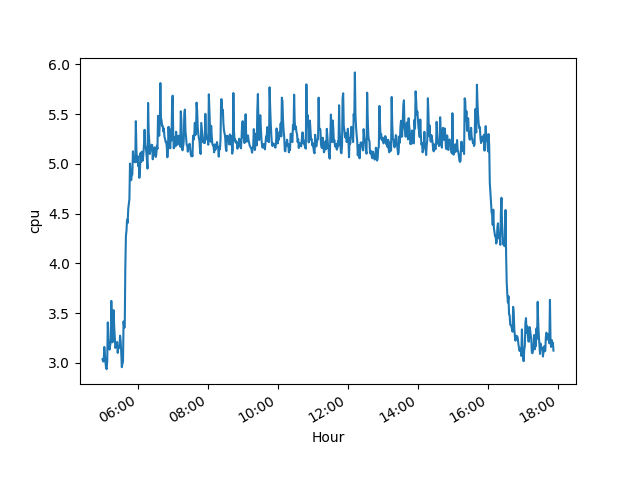
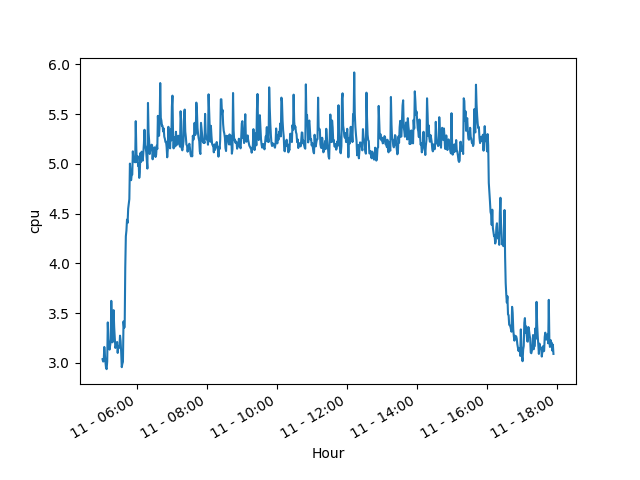
added capstone2

diff --git a/src/get_summaries.py b/src/get_summaries.py
@@ -52,7 +52,7 @@ def get_data(hostname):
 
 
 def main():
-	hosts = ['capstone0', 'capstone1']
+	hosts = ['capstone0', 'capstone1', 'capstone2']
 	types = ['cpu', 'memory', 'disk']
 	for host in hosts:
 		all_data = get_data(host)
@@ -67,7 +67,7 @@ def main():
 			plt.ylabel(t)
 			plt.xlabel("Hour")
 			plt.plot(times, metric)
-			xfmt = mdates.DateFormatter('%H:%M')
+			xfmt = mdates.DateFormatter('%d - %H:%M')
 			ax.xaxis.set_major_formatter(xfmt)
 			plt.savefig(host + '_' + t + '.png')
 			plt.gcf().clear()
